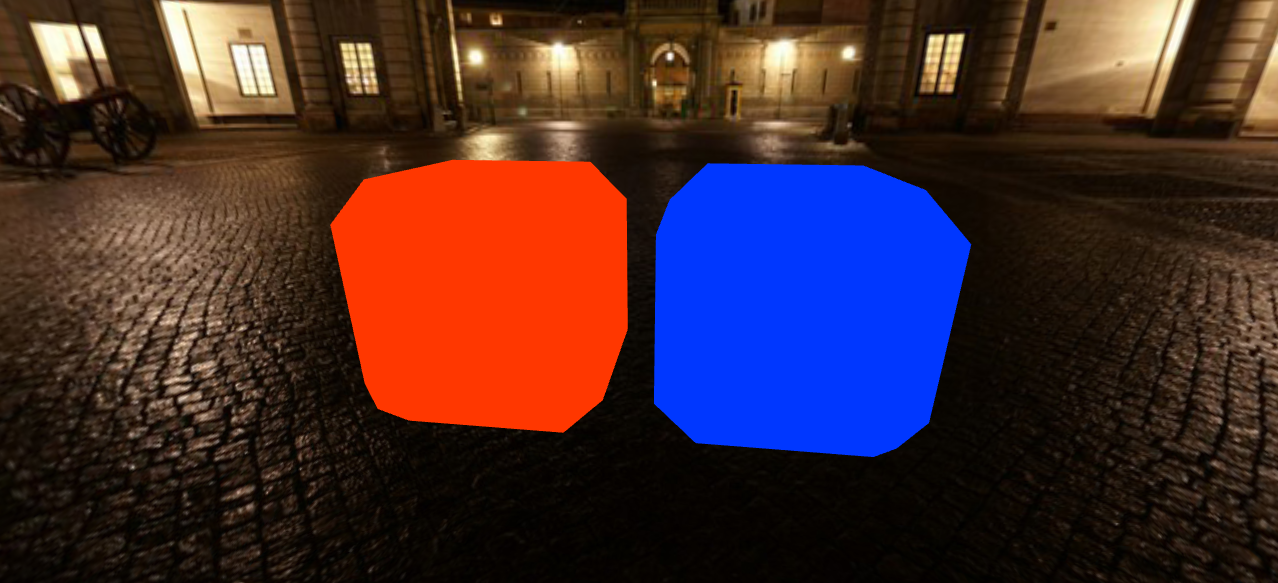
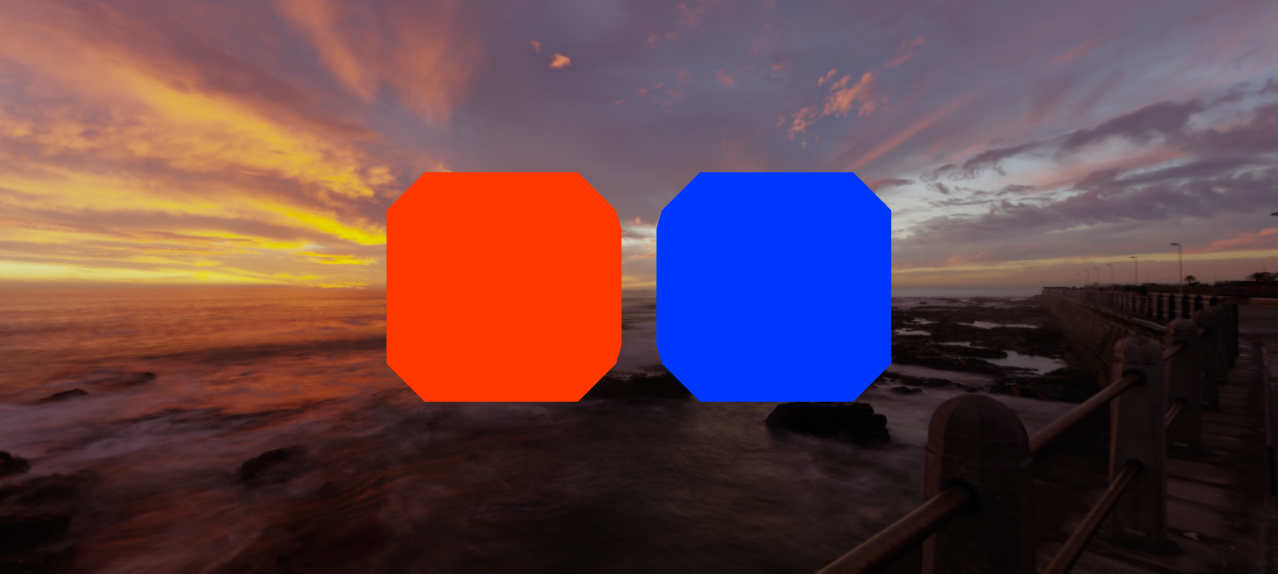
Refactor GLTF extension examples:
- Simplify `loadGLTF` by removing unused skybox and cube texture logic.
- Standardize `renderTestPane` with IBL helper integration.
- Adjust camera controller settings for better scene framing.
- Remove redundant comments for cleaner and maintainable code.
- Update thumbnails for visual consistency.

diff --git a/examples/gltf/gltfExtensions/textureTransform/textureTransformMultiTest/index.js b/examples/gltf/gltfExtensions/textureTransform/textureTransformMultiTest/index.js
@@ -1,76 +1,49 @@
-import * as RedGPU from "../../../../../dist/index.js";;
+import * as RedGPU from "../../../../../dist/index.js";
 
-// 1. Create and append a canvas
-// 1. 캔버스를 생성하고 문서에 추가
 const canvas = document.createElement('canvas');
 document.body.appendChild(canvas);
 
-// 2. Initialize RedGPU
-// 2. RedGPU 초기화
 RedGPU.init(
-    canvas,
-    (redGPUContext) => {
-        // Create a camera controller (Orbit type)
-        // 궤도형 카메라 컨트롤러 생성
-        const controller = new RedGPU.Camera.ObitController(redGPUContext);
-        controller.distance = 5
-        controller.speedDistance = 0.1
-        controller.tilt = 0
+  canvas,
+  (redGPUContext) => {
+    const controller = new RedGPU.Camera.ObitController(redGPUContext);
+    controller.distance = 3
+    controller.speedDistance = 0.1
+    controller.tilt = 0
 
-        // Create a scene and add a view with the camera controller
-        // 씬을 생성하고 카메라 컨트롤러와 함께 뷰 추가
-        const scene = new RedGPU.Display.Scene();
-        const view = new RedGPU.Display.View3D(redGPUContext, scene, controller);
-        redGPUContext.addView(view);
+    const scene = new RedGPU.Display.Scene();
+    const view = new RedGPU.Display.View3D(redGPUContext, scene, controller);
+    redGPUContext.addView(view);
 
+    loadGLTF(view, 'https://raw.githubusercontent.com/KhronosGroup/glTF-Sample-Assets/main/Models/TextureTransformMultiTest/glTF/TextureTransformMultiTest.gltf');
 
-        loadGLTF(view, 'https://raw.githubusercontent.com/KhronosGroup/glTF-Sample-Assets/main/Models/TextureTransformMultiTest/glTF/TextureTransformMultiTest.gltf',);
+    const renderer = new RedGPU.Renderer(redGPUContext);
+    const render = () => {};
+    renderer.start(redGPUContext, render);
 
-        // Create a renderer and start rendering
-        // 렌더러 생성 후 렌더링 시작
-        const renderer = new RedGPU.Renderer(redGPUContext);
-        const render = () => {
-
-        };
-        renderer.start(redGPUContext, render);
-
-    },
-    (failReason) => {
-        // Handle initialization failure
-        console.error('Initialization failed:', failReason); // 초기화 실패 로그 출력
-        const errorMessage = document.createElement('div');
-        errorMessage.innerHTML = failReason; // 실패 원인 메시지를 표시
-        document.body.appendChild(errorMessage);
-    }
+    renderTestPane(redGPUContext, view);
+  },
+  (failReason) => {
+    console.error('RedGPU initialization failed:', failReason);
+    const errorDiv = document.createElement('div');
+    errorDiv.innerHTML = failReason;
+    document.body.appendChild(errorDiv);
+  }
 );
 
 function loadGLTF(view, url) {
-    const {redGPUContext, scene} = view
-    const cubeTexture =
-        new RedGPU.Resource.CubeTexture(redGPUContext, [
-            "../../../../assets/skybox/px.jpg", // Positive X
-            "../../../../assets/skybox/nx.jpg", // Negative X
-            "../../../../assets/skybox/py.jpg", // Positive Y
-            "../../../../assets/skybox/ny.jpg", // Negative Y
-            "../../../../assets/skybox/pz.jpg", // Positive Z
-            "../../../../assets/skybox/nz.jpg", // Negative Z
-        ])
-    view.iblTexture = cubeTexture
-    view.skybox = new RedGPU.Display.SkyBox(redGPUContext, cubeTexture)
-    let mesh
-    new RedGPU.GLTFLoader(
-        redGPUContext,
-        url,
-        (v) => {
-            mesh = scene.addChild(v['resultMesh'])
-        }
-    )
+  const {redGPUContext, scene} = view;
+  new RedGPU.GLTFLoader(redGPUContext, url, (result) => {
+    const mesh = result.resultMesh
+    mesh.y = 0.2
+    scene.addChild(mesh)
+  });
 }
 
+const renderTestPane = async (redGPUContext, targetView) => {
+  const {Pane} = await import('https://cdn.jsdelivr.net/npm/tweakpane@4.0.3/dist/tweakpane.min.js');
+  const {createIblHelper} = await import('../../../../exampleHelper/createExample/panes/index.js');
 
-
-const renderTestPane = async (redGPUContext, mesh) => {
-    const {Pane} = await import('https://cdn.jsdelivr.net/npm/tweakpane@4.0.3/dist/tweakpane.min.js');
-    const pane = new Pane();
-
+  const pane = new Pane();
+  createIblHelper(pane, targetView, RedGPU);
 };

diff --git a/examples/gltf/gltfExtensions/textureTransform/textureTransformTest/index.js b/examples/gltf/gltfExtensions/textureTransform/textureTransformTest/index.js
@@ -1,76 +1,48 @@
-import * as RedGPU from "../../../../../dist/index.js";;
+import * as RedGPU from "../../../../../dist/index.js";
 
-// 1. Create and append a canvas
-// 1. 캔버스를 생성하고 문서에 추가
 const canvas = document.createElement('canvas');
 document.body.appendChild(canvas);
 
-// 2. Initialize RedGPU
-// 2. RedGPU 초기화
 RedGPU.init(
-    canvas,
-    (redGPUContext) => {
-        // Create a camera controller (Orbit type)
-        // 궤도형 카메라 컨트롤러 생성
-        const controller = new RedGPU.Camera.ObitController(redGPUContext);
-        controller.distance = 5
-        controller.speedDistance = 0.1
-        controller.tilt = 0
+  canvas,
+  (redGPUContext) => {
+    const controller = new RedGPU.Camera.ObitController(redGPUContext);
+    controller.distance = 5
+    controller.speedDistance = 0.1
+    controller.tilt = 0
 
-        // Create a scene and add a view with the camera controller
-        // 씬을 생성하고 카메라 컨트롤러와 함께 뷰 추가
-        const scene = new RedGPU.Display.Scene();
-        const view = new RedGPU.Display.View3D(redGPUContext, scene, controller);
-        redGPUContext.addView(view);
+    const scene = new RedGPU.Display.Scene();
+    const view = new RedGPU.Display.View3D(redGPUContext, scene, controller);
+    redGPUContext.addView(view);
 
+    loadGLTF(view, 'https://raw.githubusercontent.com/KhronosGroup/glTF-Sample-Assets/main/Models/TextureTransformTest/glTF/TextureTransformTest.gltf');
 
-        loadGLTF(view, 'https://raw.githubusercontent.com/KhronosGroup/glTF-Sample-Assets/main/Models/TextureTransformTest/glTF/TextureTransformTest.gltf',);
+    const renderer = new RedGPU.Renderer(redGPUContext);
+    const render = () => {};
+    renderer.start(redGPUContext, render);
 
-        // Create a renderer and start rendering
-        // 렌더러 생성 후 렌더링 시작
-        const renderer = new RedGPU.Renderer(redGPUContext);
-        const render = () => {
-
-        };
-        renderer.start(redGPUContext, render);
-
-    },
-    (failReason) => {
-        // Handle initialization failure
-        console.error('Initialization failed:', failReason); // 초기화 실패 로그 출력
-        const errorMessage = document.createElement('div');
-        errorMessage.innerHTML = failReason; // 실패 원인 메시지를 표시
-        document.body.appendChild(errorMessage);
-    }
+    renderTestPane(redGPUContext, view);
+  },
+  (failReason) => {
+    console.error('RedGPU initialization failed:', failReason);
+    const errorDiv = document.createElement('div');
+    errorDiv.innerHTML = failReason;
+    document.body.appendChild(errorDiv);
+  }
 );
 
 function loadGLTF(view, url) {
-    const {redGPUContext, scene} = view
-    const cubeTexture =
-        new RedGPU.Resource.CubeTexture(redGPUContext, [
-            "../../../../assets/skybox/px.jpg", // Positive X
-            "../../../../assets/skybox/nx.jpg", // Negative X
-            "../../../../assets/skybox/py.jpg", // Positive Y
-            "../../../../assets/skybox/ny.jpg", // Negative Y
-            "../../../../assets/skybox/pz.jpg", // Positive Z
-            "../../../../assets/skybox/nz.jpg", // Negative Z
-        ])
-    view.iblTexture = cubeTexture
-    view.skybox = new RedGPU.Display.SkyBox(redGPUContext, cubeTexture)
-    let mesh
-    new RedGPU.GLTFLoader(
-        redGPUContext,
-        url,
-        (v) => {
-            mesh = scene.addChild(v['resultMesh'])
-        }
-    )
+  const {redGPUContext, scene} = view;
+  new RedGPU.GLTFLoader(redGPUContext, url, (result) => {
+    const mesh = result.resultMesh
+    scene.addChild(mesh)
+  });
 }
 
+const renderTestPane = async (redGPUContext, targetView) => {
+  const {Pane} = await import('https://cdn.jsdelivr.net/npm/tweakpane@4.0.3/dist/tweakpane.min.js');
+  const {createIblHelper} = await import('../../../../exampleHelper/createExample/panes/index.js');
 
-
-const renderTestPane = async (redGPUContext, mesh) => {
-    const {Pane} = await import('https://cdn.jsdelivr.net/npm/tweakpane@4.0.3/dist/tweakpane.min.js');
-    const pane = new Pane();
-
+  const pane = new Pane();
+  createIblHelper(pane, targetView, RedGPU);
 };

diff --git a/examples/gltf/gltfExtensions/unlit/unlitTest/index.js b/examples/gltf/gltfExtensions/unlit/unlitTest/index.js
@@ -1,76 +1,48 @@
-import * as RedGPU from "../../../../../dist/index.js";;
+import * as RedGPU from "../../../../../dist/index.js";
 
-// 1. Create and append a canvas
-// 1. 캔버스를 생성하고 문서에 추가
 const canvas = document.createElement('canvas');
 document.body.appendChild(canvas);
 
-// 2. Initialize RedGPU
-// 2. RedGPU 초기화
 RedGPU.init(
-    canvas,
-    (redGPUContext) => {
-        // Create a camera controller (Orbit type)
-        // 궤도형 카메라 컨트롤러 생성
-        const controller = new RedGPU.Camera.ObitController(redGPUContext);
-        controller.distance = 5
-        controller.speedDistance = 0.1
-        controller.tilt = 0
+  canvas,
+  (redGPUContext) => {
+    const controller = new RedGPU.Camera.ObitController(redGPUContext);
+    controller.distance = 5
+    controller.speedDistance = 0.1
+    controller.tilt = 0
 
-        // Create a scene and add a view with the camera controller
-        // 씬을 생성하고 카메라 컨트롤러와 함께 뷰 추가
-        const scene = new RedGPU.Display.Scene();
-        const view = new RedGPU.Display.View3D(redGPUContext, scene, controller);
-        redGPUContext.addView(view);
+    const scene = new RedGPU.Display.Scene();
+    const view = new RedGPU.Display.View3D(redGPUContext, scene, controller);
+    redGPUContext.addView(view);
 
+    loadGLTF(view, 'https://raw.githubusercontent.com/KhronosGroup/glTF-Sample-Assets/main/Models/UnlitTest/glTF/UnlitTest.gltf');
 
-        loadGLTF(view, 'https://raw.githubusercontent.com/KhronosGroup/glTF-Sample-Assets/main/Models/UnlitTest/glTF/UnlitTest.gltf',);
+    const renderer = new RedGPU.Renderer(redGPUContext);
+    const render = () => {};
+    renderer.start(redGPUContext, render);
 
-        // Create a renderer and start rendering
-        // 렌더러 생성 후 렌더링 시작
-        const renderer = new RedGPU.Renderer(redGPUContext);
-        const render = () => {
-
-        };
-        renderer.start(redGPUContext, render);
-
-    },
-    (failReason) => {
-        // Handle initialization failure
-        console.error('Initialization failed:', failReason); // 초기화 실패 로그 출력
-        const errorMessage = document.createElement('div');
-        errorMessage.innerHTML = failReason; // 실패 원인 메시지를 표시
-        document.body.appendChild(errorMessage);
-    }
+    renderTestPane(redGPUContext, view);
+  },
+  (failReason) => {
+    console.error('RedGPU initialization failed:', failReason);
+    const errorDiv = document.createElement('div');
+    errorDiv.innerHTML = failReason;
+    document.body.appendChild(errorDiv);
+  }
 );
 
 function loadGLTF(view, url) {
-    const {redGPUContext, scene} = view
-    const cubeTexture =
-        new RedGPU.Resource.CubeTexture(redGPUContext, [
-            "../../../../assets/skybox/px.jpg", // Positive X
-            "../../../../assets/skybox/nx.jpg", // Negative X
-            "../../../../assets/skybox/py.jpg", // Positive Y
-            "../../../../assets/skybox/ny.jpg", // Negative Y
-            "../../../../assets/skybox/pz.jpg", // Positive Z
-            "../../../../assets/skybox/nz.jpg", // Negative Z
-        ])
-    view.iblTexture = cubeTexture
-    view.skybox = new RedGPU.Display.SkyBox(redGPUContext, cubeTexture)
-    let mesh
-    new RedGPU.GLTFLoader(
-        redGPUContext,
-        url,
-        (v) => {
-            mesh = scene.addChild(v['resultMesh'])
-        }
-    )
+  const {redGPUContext, scene} = view;
+  new RedGPU.GLTFLoader(redGPUContext, url, (result) => {
+    const mesh = result.resultMesh
+    scene.addChild(mesh)
+  });
 }
 
+const renderTestPane = async (redGPUContext, targetView) => {
+  const {Pane} = await import('https://cdn.jsdelivr.net/npm/tweakpane@4.0.3/dist/tweakpane.min.js');
+  const {createIblHelper} = await import('../../../../exampleHelper/createExample/panes/index.js');
 
-
-const renderTestPane = async (redGPUContext, mesh) => {
-    const {Pane} = await import('https://cdn.jsdelivr.net/npm/tweakpane@4.0.3/dist/tweakpane.min.js');
-    const pane = new Pane();
-
+  const pane = new Pane();
+  createIblHelper(pane, targetView, RedGPU);
 };
